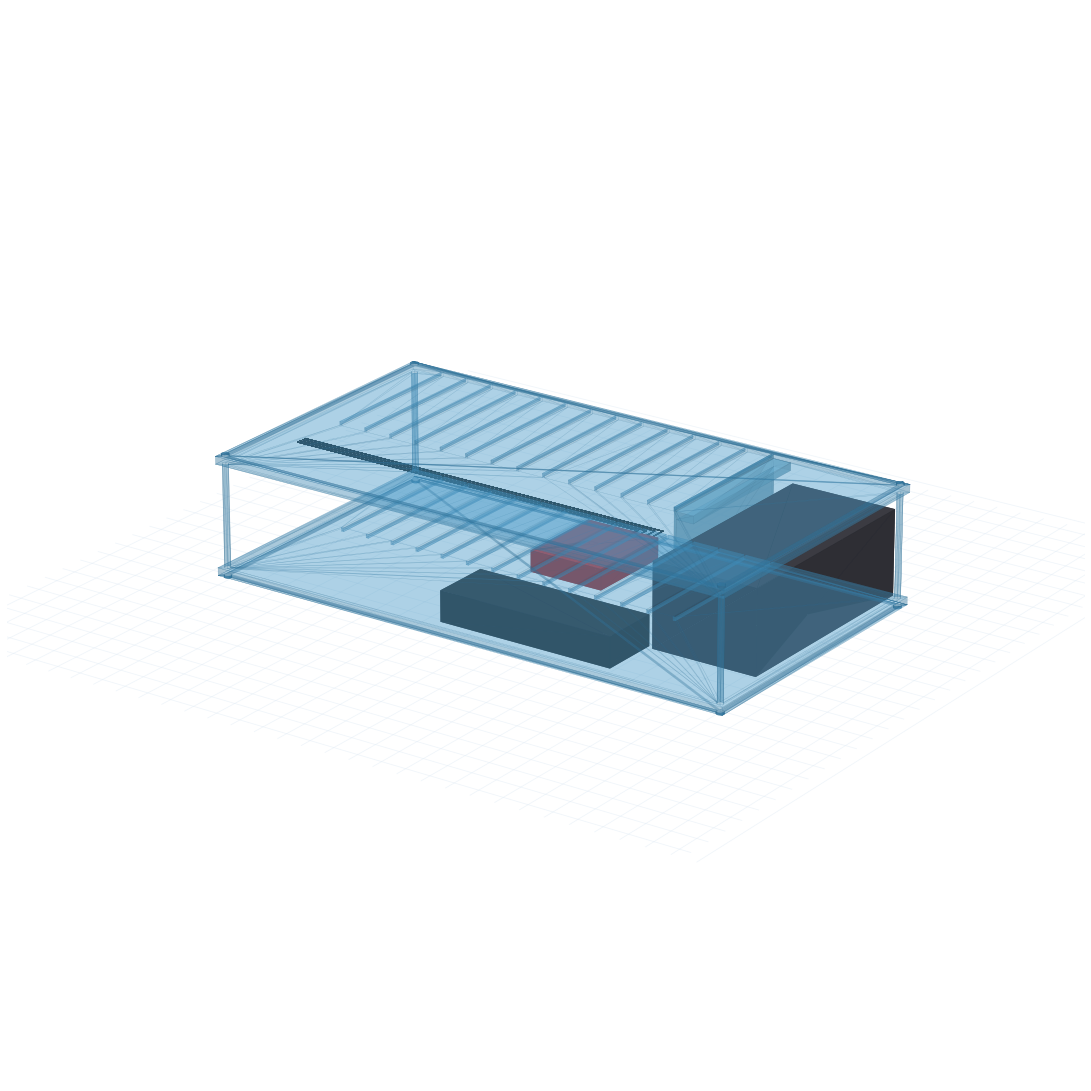
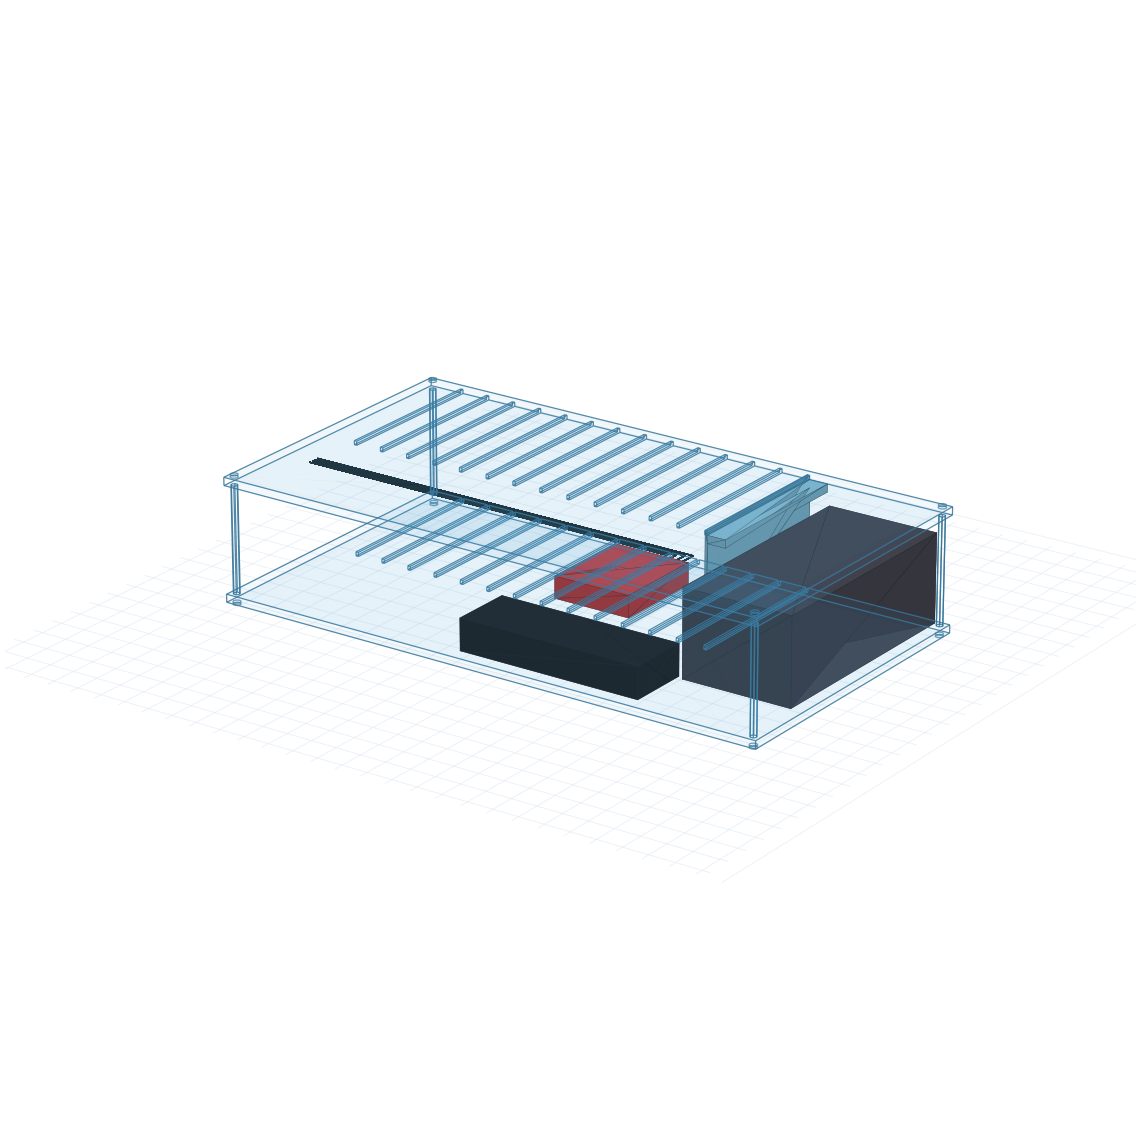
TX300 BOM: record .99 Amazon purchase price; re-render chassis photos with cleaner wireframe-on-solid style (drops muddy translucent acrylic overlap from previous render); pandoc re-render of chassis arch HTML

Changed region(s): [[0.187, 0.3116, 0.8414, 0.6544]]

diff --git a/docs/chassis/Chassis_Architecture_and_Power_Distribution.html b/docs/chassis/Chassis_Architecture_and_Power_Distribution.html
@@ -536,11 +536,11 @@ blockquote {
 <tr class="even">
 <td>Silverstone TX300 TFX PSU (300 W)</td>
 <td>Silverstone SST-TX300</td>
-<td>n/a</td>
-<td>n/a</td>
+<td>Amazon</td>
+<td>(on hand)</td>
 <td style="text-align: right;">1</td>
-<td style="text-align: right;">$0</td>
-<td>On hand</td>
+<td style="text-align: right;">$99.99</td>
+<td>Purchased $99.99; analog-rail backbone for ±12 V / +5 V instrument modules.</td>
 </tr>
 <tr class="odd">
 <td>GeeekPi D-1188 ATX 24-pin breakout</td>

diff --git a/README.md b/README.md
@@ -91,7 +91,7 @@ Detailed rationale (gauge sizing, standoff stacking, fastener stack-up, Wago vs 
 - [x] 22 AWG signal wire on hand
 - [x] LEDs for diagnostic strip on hand
 - [x] Heat-shrink tubing on hand (ElectroBits)
-- [x] TX300 PSU on hand
+- [x] Silverstone SST-TX300 TFX PSU — Amazon ($99.99), on hand
 
 **Chassis fabrication + assembly**
 
